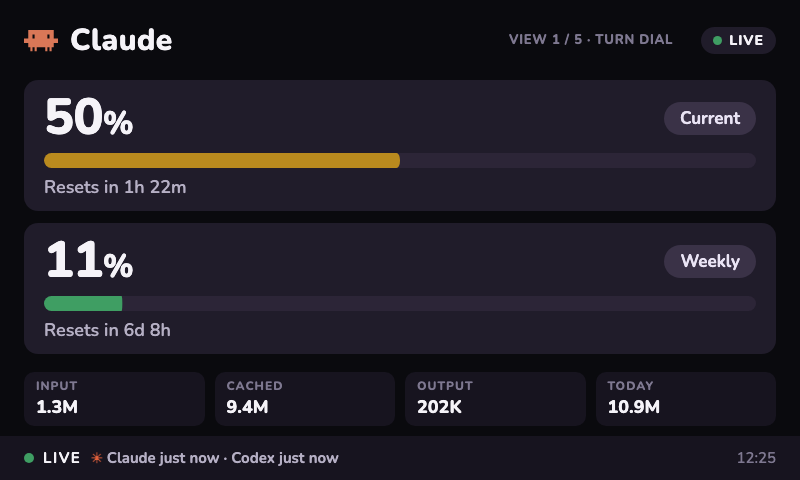
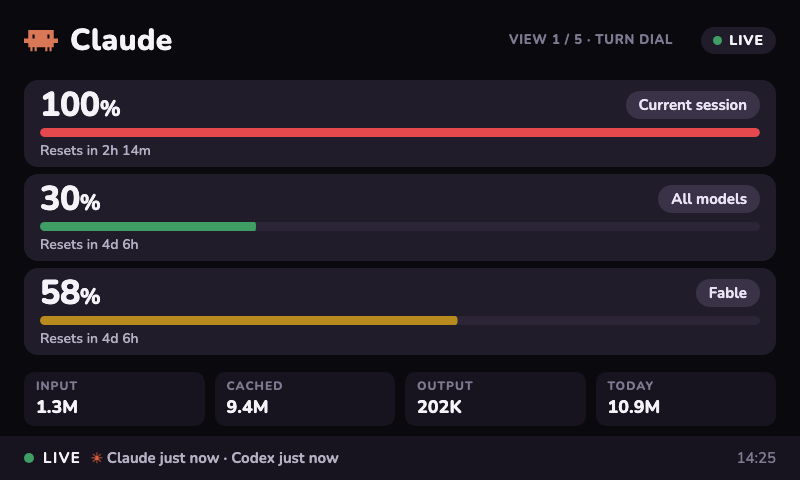
fix: show authoritative Claude account limits

Changed region(s): [[0.0312, 0.1875, 0.9688, 0.7188]]

diff --git a/apps/collector/src/adapters/claude-oauth.ts b/apps/collector/src/adapters/claude-oauth.ts
@@ -92,39 +92,41 @@ function prettyKind(kind: string): string {
   return words.charAt(0).toUpperCase() + words.slice(1);
 }
 
+function scopedLimitName(entry: Record<string, unknown>): string {
+  const scope = isObject(entry.scope) ? entry.scope : null;
+  const model = scope && isObject(scope.model) ? scope.model : null;
+  const displayName = model && typeof model.display_name === "string" ? model.display_name.trim() : "";
+  const modelId = model && typeof model.id === "string" ? model.id.trim() : "";
+  return (displayName || modelId || "Scoped limit").slice(0, 48);
+}
+
+function stableLimitId(label: string): string {
+  const slug = label.toLowerCase().replace(/[^a-z0-9]+/g, "_").replace(/^_+|_+$/g, "");
+  return `oauth_weekly_scoped_${(slug || "limit").slice(0, 40)}`;
+}
+
 /** Parse the usage response into quota windows; unknown shapes yield []. */
 export function parseOauthUsage(raw: unknown): QuotaWindow[] {
   if (!isObject(raw)) return [];
   const windows: QuotaWindow[] = [];
-  const five = windowFrom(raw.five_hour, "five_hour", "Current", FIVE_HOUR_SECONDS);
-  const seven = windowFrom(raw.seven_day, "seven_day", "Weekly", SEVEN_DAY_SECONDS);
+  const five = windowFrom(raw.five_hour, "five_hour", "Current session", FIVE_HOUR_SECONDS);
+  const seven = windowFrom(raw.seven_day, "seven_day", "All models", SEVEN_DAY_SECONDS);
   if (five) windows.push(five);
   if (seven) windows.push(seven);
 
-  // Additional named limits ride along after the two card windows. When the
-  // provider marks a scoped weekly cap active, that cap is the effective
-  // Weekly constraint shown by the first-party app. Promote it to the
-  // canonical seven_day slot and retain the aggregate as Weekly all for the
-  // detail view. "session" and "weekly_all" otherwise duplicate the headline
-  // fields and are skipped.
+  // The provider repeats the first two windows in `limits`; skip those exact
+  // duplicates. Scoped weekly entries are distinct model/surface allowances
+  // and must remain separately labeled instead of replacing All models.
   if (Array.isArray(raw.limits)) {
     for (const entry of raw.limits.slice(0, 16)) {
       if (!isObject(entry)) continue;
       const kind = typeof entry.kind === "string" ? entry.kind.trim() : "";
       if (!kind || kind === "session" || kind === "weekly_all") continue;
       const group = typeof entry.group === "string" ? entry.group : "";
-      if (kind === "weekly_scoped" && entry.is_active === true) {
-        const active = windowFrom(entry, "seven_day", "Weekly", SEVEN_DAY_SECONDS);
-        if (active) {
-          const aggregateIndex = windows.findIndex((window) => window.id === "seven_day");
-          if (aggregateIndex >= 0) {
-            const aggregate = windows[aggregateIndex]!;
-            windows[aggregateIndex] = active;
-            windows.push({ ...aggregate, id: "oauth_weekly_all", label: "Weekly all" });
-          } else {
-            windows.push(active);
-          }
-        }
+      if (kind === "weekly_scoped") {
+        const label = scopedLimitName(entry);
+        const scoped = windowFrom(entry, stableLimitId(label), label, SEVEN_DAY_SECONDS);
+        if (scoped && scoped.usedPercent !== null) windows.push(scoped);
         continue;
       }
       const win = windowFrom(

diff --git a/apps/collector/src/merge.ts b/apps/collector/src/merge.ts
@@ -100,6 +100,16 @@ function tokenPriority(source: string | null): number {
   return (source !== null ? TOKEN_SOURCE_PRIORITY[source] : undefined) ?? 1;
 }
 
+/** Claude's account endpoint owns quota percentages. The status-line hook is
+ * faster, but its rate-limit payload may describe a different surface and
+ * must not overwrite the account bars between five-minute OAuth polls. */
+function quotaPriority(provider: ProviderSnapshot): number {
+  if (provider.id !== "claude") return 1;
+  if (provider.source === "oauth") return 3;
+  if (provider.source === "statusline") return 2;
+  return 1;
+}
+
 function sumField(summaries: TokenSummary[], get: (t: TokenSummary) => number | null): number | null {
   let acc: number | null = null;
   for (const t of summaries) {
@@ -115,7 +125,10 @@ export function mergeProvider(observations: ObservationInput[], opts: MergeOptio
   }
   const eff = observations.map(toEffective);
   const sorted = [...eff].sort((a, b) => (b.observedAtMs ?? -1) - (a.observedAtMs ?? -1));
-  const quotaWinner = sorted.find((e) => e.provider.quotaWindows.length > 0) ?? null;
+  const quotaSorted = [...eff].sort((a, b) =>
+    quotaPriority(b.provider) - quotaPriority(a.provider) ||
+    (b.observedAtMs ?? -1) - (a.observedAtMs ?? -1));
+  const quotaWinner = quotaSorted.find((e) => e.provider.quotaWindows.length > 0) ?? null;
   const base = quotaWinner ?? sorted[0]!;
 
   // Diagnostics are unioned across every surface — a failing adapter's code
@@ -128,12 +141,12 @@ export function mergeProvider(observations: ObservationInput[], opts: MergeOptio
   }
   if (quotaWinner?.skewed) diagnostics.add("CLOCK_SKEW");
 
-  // Merge by stable window id. Iterating newest-first makes the first value
-  // authoritative for duplicate ids, while the lag bound retains additional
-  // limits from a slightly older richer surface (normally app-server).
+  // Merge by stable window id. Provider authority wins first for Claude;
+  // other providers preserve freshest-first behavior. The lag bound retains
+  // additional limits from a slightly older richer surface.
   const windowsById = new Map<string, QuotaWindow>();
   const newestQuotaMs = quotaWinner?.observedAtMs ?? null;
-  for (const observation of sorted) {
+  for (const observation of quotaSorted) {
     if (observation.provider.quotaWindows.length === 0) continue;
     if (
       newestQuotaMs !== null &&

diff --git a/apps/device-ui/src/screens/ProviderDetail.tsx b/apps/device-ui/src/screens/ProviderDetail.tsx
@@ -79,6 +79,7 @@ export function meterPageCount(p: ProviderSnapshot, metrics: ProviderDisplayMetr
     : 0;
   if (!metrics.includes("quota")) return factsPages;
   if (factsPages > 0) return factsPages + Math.ceil(Math.max(0, quotaWindows.length - 1) / 2);
+  if (p.id === "claude" && quotaWindows.length > 0 && quotaWindows.length <= 3) return 1;
   return Math.max(1, Math.ceil(quotaWindows.length / 2));
 }
 
@@ -165,6 +166,7 @@ export function ProviderDetail({ provider: p, now, linkDown, windowPage, timeZon
   const safePage = page % pageCount;
   const quotaVisible = metrics.includes("quota");
   const factsVisible = hasFactsPage(metrics);
+  const showAllClaudeLimits = p.id === "claude" && quotaWindows.length > 0 && quotaWindows.length <= 3 && !factsVisible;
   const headline = currentPeriodWindow(quotaWindows);
   const factsPages = factsVisible
     ? usageFactsPageCount({
@@ -185,6 +187,8 @@ export function ProviderDetail({ provider: p, now, linkDown, windowPage, timeZon
       ? [headline]
       : missing
         ? placeholderWindows()
+        : showAllClaudeLimits
+          ? quotaWindows
         : padWindows(
             factsVisible
               ? additionalWindows.slice((safePage - factsPages) * 2, (safePage - factsPages) * 2 + 2)
@@ -213,9 +217,15 @@ export function ProviderDetail({ provider: p, now, linkDown, windowPage, timeZon
         </span>
       </div>
 
-      <div className={factsVisible && safePage < factsPages ? "detail-meters codex-facts-layout" : "detail-meters"}>
+      <div className={
+        factsVisible && safePage < factsPages
+          ? "detail-meters codex-facts-layout"
+          : showAllClaudeLimits
+            ? "detail-meters three-limit-layout"
+            : "detail-meters"
+      }>
         {quotaVisible && windows.map((w) => (
-          <Meter key={w.id} window={w} now={now} degraded={degraded} />
+          <Meter key={w.id} window={w} now={now} degraded={degraded} compact={showAllClaudeLimits} />
         ))}
         {factsVisible && safePage < factsPages && (
           <UsageFactsPanel

diff --git a/apps/collector/test/claude-oauth.test.ts b/apps/collector/test/claude-oauth.test.ts
@@ -27,13 +27,32 @@ const USAGE_BODY = {
 };
 
 describe("parseOauthUsage", () => {
-  it("promotes the active scoped cap to Weekly and retains the all-model aggregate", () => {
+  it("keeps current, all-model, and named scoped allowances as distinct bars", () => {
     const windows = parseOauthUsage(USAGE_BODY);
-    expect(windows.map((w) => w.id)).toEqual(["five_hour", "seven_day", "oauth_weekly_all"]);
-    expect(windows[0]).toMatchObject({ label: "Current", usedPercent: 4, windowSeconds: 18000 });
-    expect(windows[1]).toMatchObject({ label: "Weekly", usedPercent: 99, windowSeconds: 604800 });
-    expect(windows[2]).toMatchObject({ label: "Weekly all", usedPercent: 61, windowSeconds: 604800 });
-    expect(windows[2]?.resetsAt).toBe("2026-08-11T06:00:00.443Z");
+    expect(windows.map((w) => w.id)).toEqual(["five_hour", "seven_day", "oauth_weekly_scoped_scoped_limit"]);
+    expect(windows[0]).toMatchObject({ label: "Current session", usedPercent: 4, windowSeconds: 18000 });
+    expect(windows[1]).toMatchObject({ label: "All models", usedPercent: 61, windowSeconds: 604800 });
+    expect(windows[2]).toMatchObject({ label: "Scoped limit", usedPercent: 99, windowSeconds: 604800 });
+    expect(windows[1]?.resetsAt).toBe("2026-08-11T06:00:00.443Z");
+  });
+
+  it("uses the provider's model display name for a scoped weekly allowance", () => {
+    const windows = parseOauthUsage({
+      five_hour: { utilization: 100 },
+      seven_day: { utilization: 30 },
+      limits: [{
+        kind: "weekly_scoped",
+        group: "weekly",
+        percent: 58,
+        scope: { model: { id: null, display_name: "Fable" } },
+        is_active: true,
+      }],
+    });
+    expect(windows).toMatchObject([
+      { id: "five_hour", label: "Current session", usedPercent: 100 },
+      { id: "seven_day", label: "All models", usedPercent: 30 },
+      { id: "oauth_weekly_scoped_fable", label: "Fable", usedPercent: 58 },
+    ]);
   });
 
   it("yields nothing for garbage", () => {

diff --git a/apps/device-ui/src/components/Meter.tsx b/apps/device-ui/src/components/Meter.tsx
@@ -118,12 +118,19 @@ export function currentPeriodWindow(windows: QuotaWindow[]): QuotaWindow {
 }
 
 /** Provider headline quotas deliberately exclude duplicate telemetry scopes.
- * The collector retains every observed limit; the default device view shows
- * Claude Current/Weekly and Codex's account-wide all-model period only. */
+ * Claude keeps its current, all-model, and named model allowances distinct;
+ * Codex keeps its account-wide all-model period only. */
 export function displayQuotaWindows(providerId: string, windows: QuotaWindow[]): QuotaWindow[] {
   if (windows.length === 0) return [];
   if (providerId === "claude") {
-    return cardWindows(windows).filter((window) => !window.id.startsWith("ph_"));
+    const byId = new Map(windows.map((window) => [window.id, window]));
+    const ordered = [byId.get("five_hour"), byId.get("seven_day")]
+      .filter((window): window is QuotaWindow => window !== undefined);
+    for (const window of windows) {
+      if (window.id === "five_hour" || window.id === "seven_day" || window.id === "oauth_weekly_all") continue;
+      ordered.push(window);
+    }
+    return ordered;
   }
   if (providerId === "codex") return [currentPeriodWindow(windows)];
   return windows;

diff --git a/packages/contracts/src/fixtures.ts b/packages/contracts/src/fixtures.ts
@@ -70,21 +70,28 @@ function claude(nowMs: number, over: Partial<ProviderSnapshot> = {}): ProviderSn
     displayName: "Claude",
     state: "live",
     observedAt: iso(nowMs, -35),
-    source: "statusline",
+    source: "oauth",
     host: "pc",
     quotaWindows: [
       {
         id: "five_hour",
-        label: "Current",
-        usedPercent: 50,
-        resetsAt: iso(nowMs, 82 * 60),
+        label: "Current session",
+        usedPercent: 100,
+        resetsAt: iso(nowMs, 2 * 3600 + 14 * 60),
         windowSeconds: 5 * 3600,
       },
       {
         id: "seven_day",
-        label: "Weekly",
-        usedPercent: 11,
-        resetsAt: iso(nowMs, 6 * 86400 + 8 * 3600),
+        label: "All models",
+        usedPercent: 30,
+        resetsAt: iso(nowMs, 4 * 86400 + 6 * 3600),
+        windowSeconds: 7 * 86400,
+      },
+      {
+        id: "oauth_weekly_scoped_fable",
+        label: "Fable",
+        usedPercent: 58,
+        resetsAt: iso(nowMs, 4 * 86400 + 6 * 3600),
         windowSeconds: 7 * 86400,
       },
     ],

diff --git a/apps/collector/test/merge.test.ts b/apps/collector/test/merge.test.ts
@@ -56,6 +56,25 @@ describe("quota merge", () => {
     expect(merged.snapshot.host).toBe("pc");
   });
 
+  it("keeps Claude OAuth account quotas authoritative over fresher status-line limits", () => {
+    const merged = mergeProvider(
+      [
+        {
+          provider: obs({ source: "oauth", observedAt: iso(-240), quotaWindows: [window(100)] }),
+          receivedAtMs: NOW,
+        },
+        {
+          provider: obs({ source: "statusline", observedAt: iso(-1), quotaWindows: [window(0)] }),
+          receivedAtMs: NOW,
+        },
+      ],
+      { nowMs: NOW },
+    );
+    expect(merged.snapshot.quotaWindows[0]?.usedPercent).toBe(100);
+    expect(merged.snapshot.source).toBe("oauth");
+    expect(merged.snapshot.observedAt).toBe(iso(-240));
+  });
+
   it("keeps richer app-server windows while a fresher rollout updates their shared limit", () => {
     const weekly = (id: string, label: string, usedPercent: number) => ({
       id,

diff --git a/apps/device-ui/test/meter.test.ts b/apps/device-ui/test/meter.test.ts
@@ -158,14 +158,15 @@ describe("displayQuotaWindows", () => {
     ).toEqual([expect.objectContaining({ id: "codex:primary", label: "Current period", usedPercent: 7 })]);
   });
 
-  it("deduplicates Claude's overlapping weekly observations", () => {
+  it("keeps Claude current, all-model, and named model allowances distinct", () => {
     expect(
       displayQuotaWindows("claude", [
         win({ id: "five_hour", label: "Current", windowSeconds: 18_000, usedPercent: 12 }),
-        win({ id: "seven_day", label: "Weekly", usedPercent: 62 }),
+        win({ id: "seven_day", label: "All models", usedPercent: 62 }),
         win({ id: "oauth_weekly_all", label: "Weekly all", usedPercent: 62 }),
+        win({ id: "oauth_weekly_scoped_fable", label: "Fable", usedPercent: 58 }),
       ]).map((window) => window.id),
-    ).toEqual(["five_hour", "seven_day"]);
+    ).toEqual(["five_hour", "seven_day", "oauth_weekly_scoped_fable"]);
   });
 });
 

diff --git a/apps/device-ui/src/theme.css b/apps/device-ui/src/theme.css
@@ -614,6 +614,34 @@ body {
   margin-top: 7px;
 }
 
+/* Claude exposes three useful account bars: current session, all models, and
+   a named scoped limit such as Fable. Keep all three glanceable together. */
+.detail-meters.three-limit-layout .meter {
+  padding: 8px 16px 7px;
+}
+
+.detail-meters.three-limit-layout .meter + .meter {
+  margin-top: 7px;
+}
+
+.detail-meters.three-limit-layout .meter-pct {
+  font-size: 34px;
+}
+
+.detail-meters.three-limit-layout .meter-pct .pct-sign {
+  font-size: 22px;
+}
+
+.detail-meters.three-limit-layout .bar {
+  height: 9px;
+  margin-top: 6px;
+}
+
+.detail-meters.three-limit-layout .meter-reset {
+  font-size: 14px;
+  margin-top: 4px;
+}
+
 .codex-facts-layout .meter {
   padding-top: 11px;
   padding-bottom: 10px;

diff --git a/README.md b/README.md
@@ -78,7 +78,7 @@ The repository gives the agent concrete checks and safety stops for each stage. 
 
 | Claude usage | Codex usage | System status |
 | --- | --- | --- |
-| <img src="docs/media/claude-detail.png" alt="Claude current and weekly usage dashboard" /> | <img src="docs/media/codex-detail.png" alt="Codex current usage, resets, and account facts dashboard" /> | <img src="docs/media/system.png" alt="ClaudeThing host, device, pairing, and telemetry status" /> |
+| <img src="docs/media/claude-detail.png" alt="Claude current session, all-model, and Fable usage dashboard" /> | <img src="docs/media/codex-detail.png" alt="Codex current usage, resets, and account facts dashboard" /> | <img src="docs/media/system.png" alt="ClaudeThing host, device, pairing, and telemetry status" /> |
 
 The rotary dial changes Daily, Weekly, Monthly, and Year ranges inside YouTube and GA4. Market views rotate automatically through the configured stocks, funds, and indexes; turning the dial switches immediately. The screenshots show the same dark 800×480 UI shipped in the device bundle.
 
